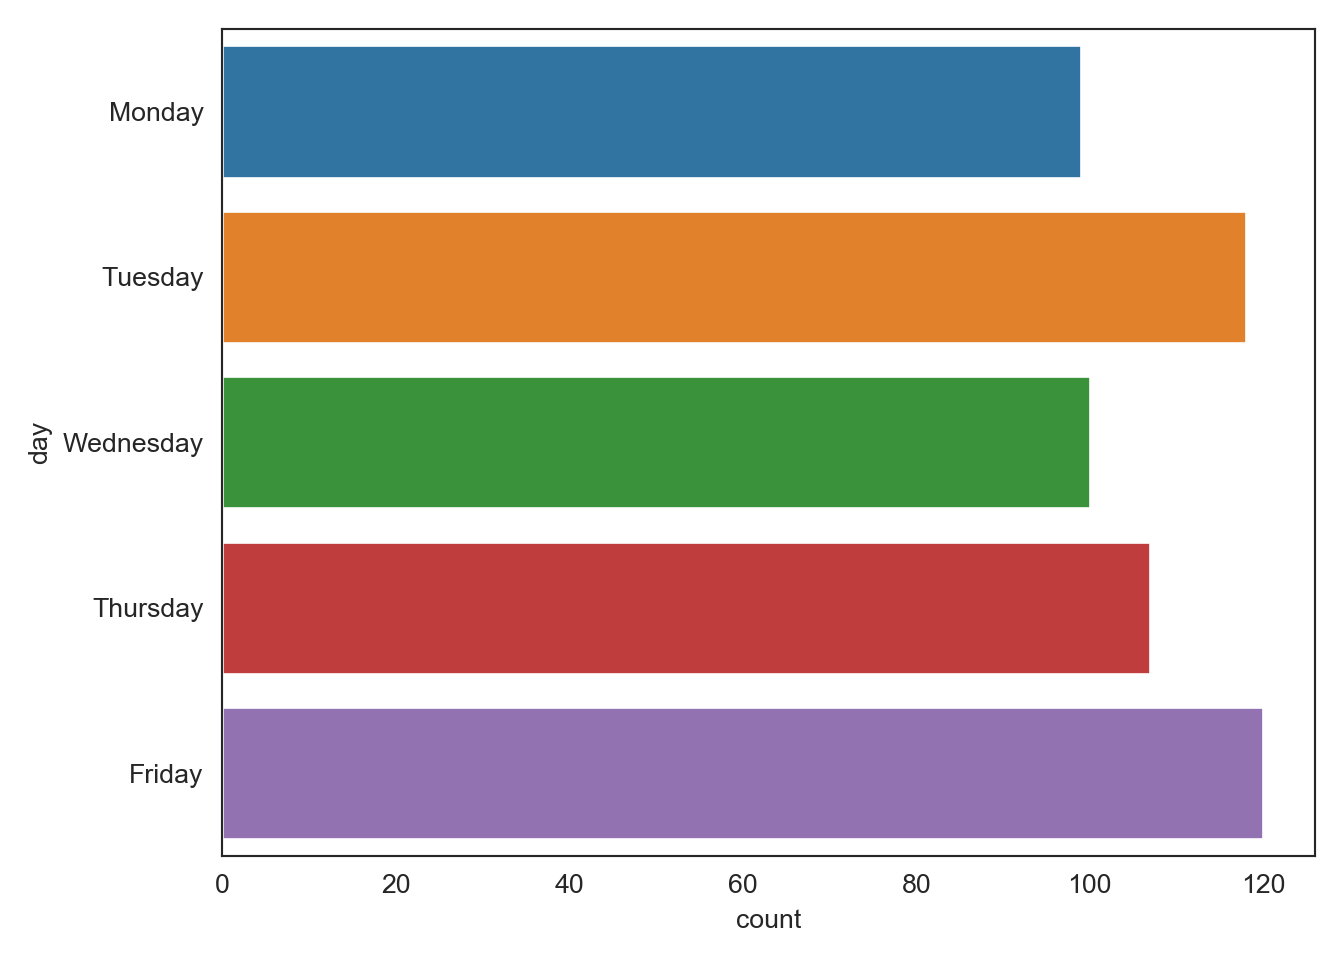
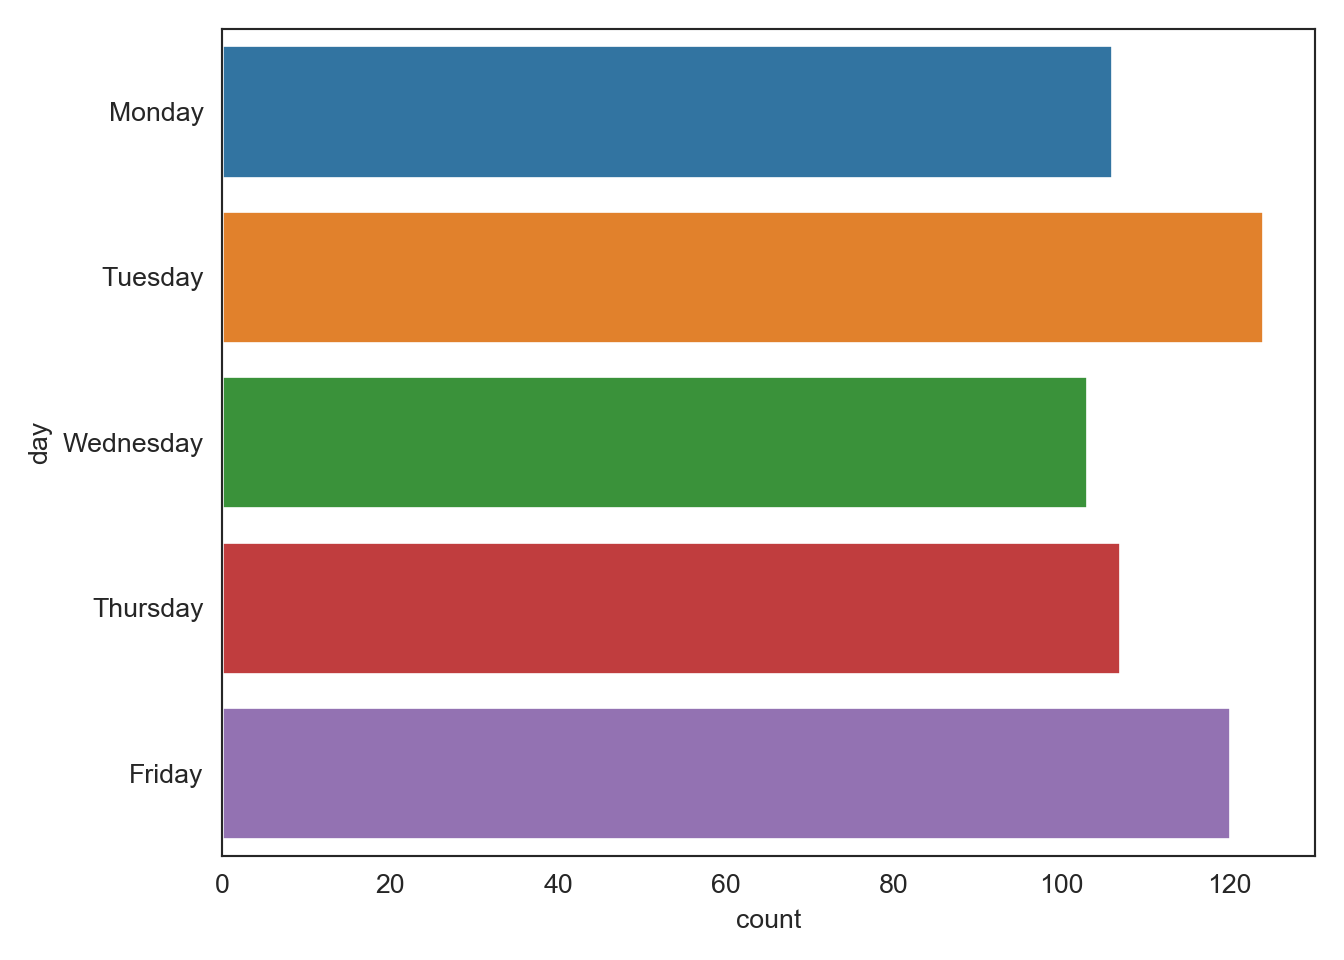
enable plot chunks

diff --git a/content/blog/2019-11-21-limnology-papers-year-end-review-with-a-python-twitter-rss-feed.html b/content/blog/2019-11-21-limnology-papers-year-end-review-with-a-python-twitter-rss-feed.html
@@ -53,14 +53,14 @@ sns.barplot(data = log_perjournal.query(&quot;count &gt; 6&quot;), y = &quot;dc_
 plt.xlabel(&quot;count&quot;)
 plt.ylabel(&quot;&quot;)
 plt.tight_layout()
-plt.show()
-
-
-plt.savefig(&quot;static/images/paper_count.png&quot;)</code></pre>
+plt.show()</code></pre>
+<p><img src="/blog/2019-11-21-limnology-papers-year-end-review-with-a-python-twitter-rss-feed_files/figure-html/unnamed-chunk-11-1.png" width="672" /></p>
+<p><img src="/blog/2019-11-21-limnology-papers-year-end-review-with-a-python-twitter-rss-feed_files/figure-html/unnamed-chunk-15-1.png" width="672" /></p>
 <p>Next, lets look at a wordcloud of paper titles to see common themes:</p>
 <pre class="python"><code>wc = wordcloud.WordCloud().generate(log[&quot;title&quot;].str.cat(sep=&quot; &quot;))
 plt.imshow(wc)
 plt.show()</code></pre>
+<p><img src="/blog/2019-11-21-limnology-papers-year-end-review-with-a-python-twitter-rss-feed_files/figure-html/unnamed-chunk-16-1.png" width="672" /></p>
 <p>To wrap things up, lets look at a cumulative timeline of limnopapers tweets. We saw about 600 papers in 2019.</p>
 <pre class="python"><code>log_cumsum = (log
               .groupby([&quot;date&quot;])
@@ -75,6 +75,7 @@ plt.xlabel(&quot;&quot;)
 plt.ylabel(&quot;Cumulative tweets&quot;)
 plt.tight_layout()
 plt.show()</code></pre>
+<p><img src="/blog/2019-11-21-limnology-papers-year-end-review-with-a-python-twitter-rss-feed_files/figure-html/unnamed-chunk-17-1.png" width="672" /></p>
 <p>…and there was no real pattern in the day of the week when most papers are posted. Looks like Friday is the most popular day followed closely by Tuesday.</p>
 <pre class="python"><code># per day stats
 # calculate day of the week from date, group per day and sum
@@ -97,6 +98,7 @@ log_perday = log_perday.sort_values([&quot;day&quot;])
 sns.barplot(data = log_perday, y = &quot;day&quot;, x = &quot;count&quot;)   
 plt.tight_layout()
 plt.show()</code></pre>
+<p><img src="/blog/2019-11-21-limnology-papers-year-end-review-with-a-python-twitter-rss-feed_files/figure-html/unnamed-chunk-18-1.png" width="672" /></p>
 <p>Certainly caveats apply here. My keyword choices reflect a specific interpretation of limnology, my journal choices are limited to only a few dozen titles, and I used my personal judgement to tune the papers that were posted. Anyone interested in running their own feed either on limnology or some other topic can do so by forking the code at <a href="https://github.com/jsta/limnopapers" class="uri">https://github.com/jsta/limnopapers</a> and adjusting the feed choices in <code>feeds.csv</code> and/or the keywords in <code>keywords.csv</code>.</p>
 <div id="further-reading" class="section level2">
 <h2>Further reading</h2>
